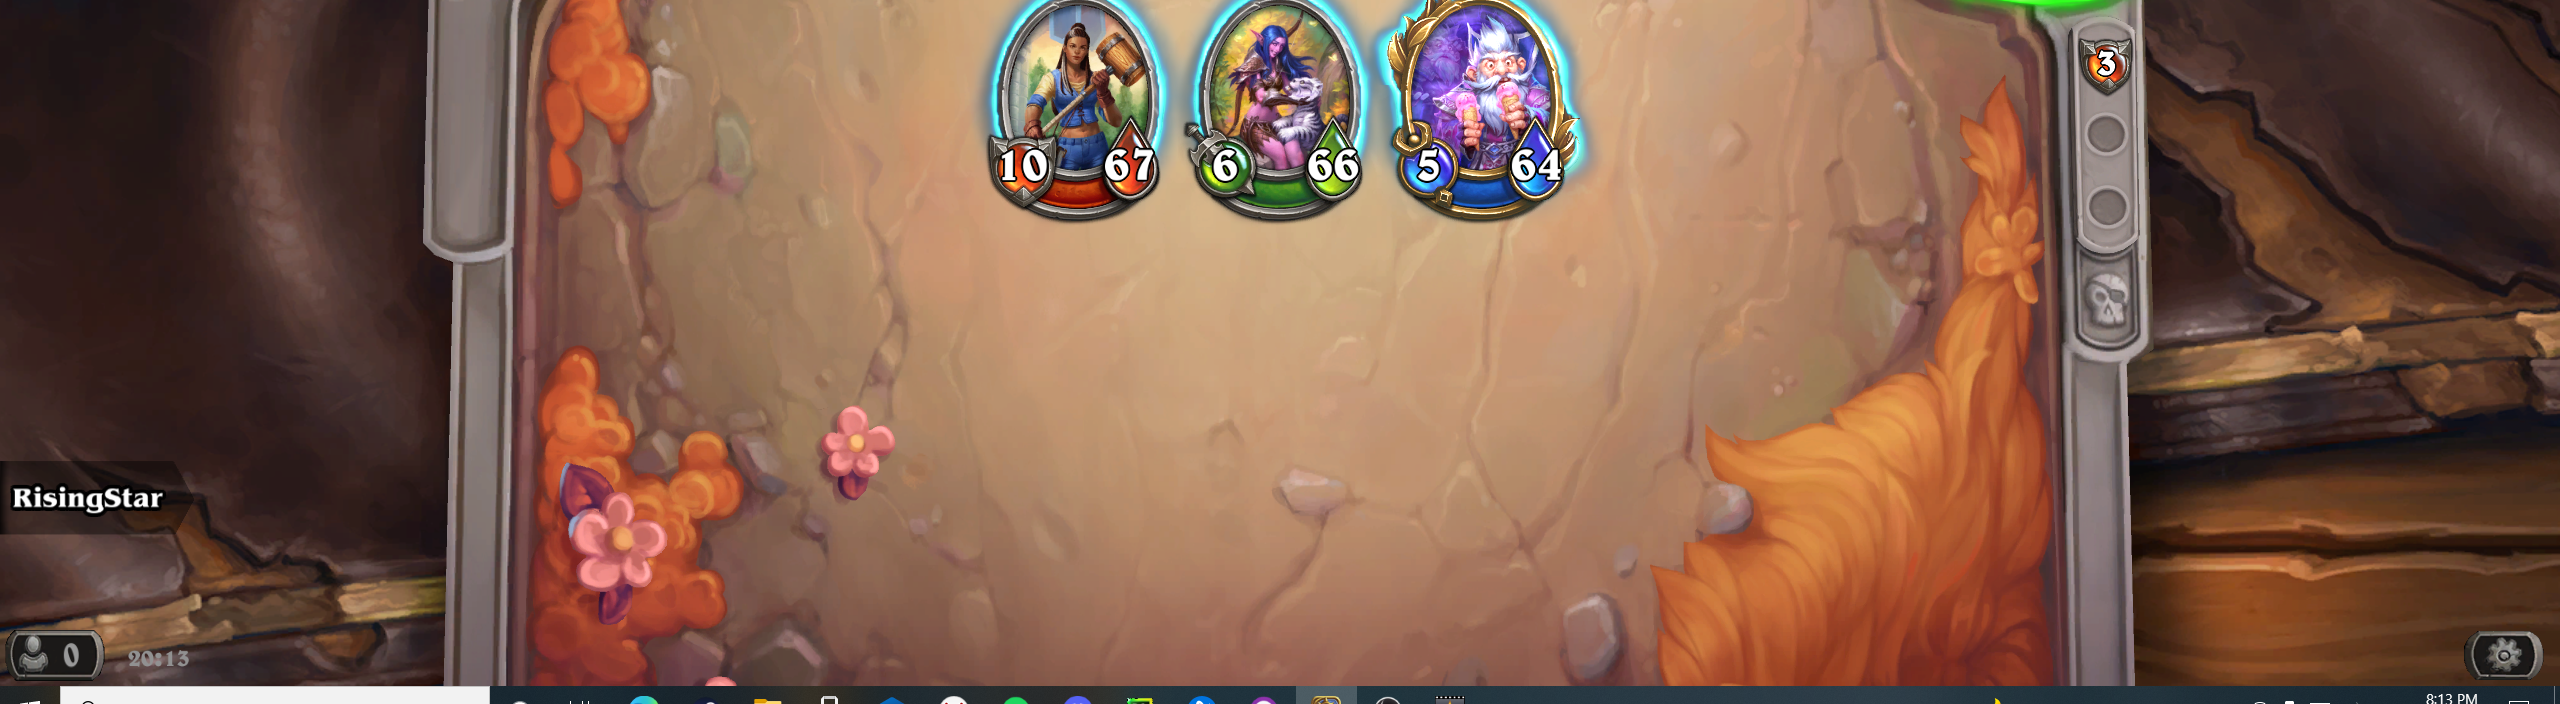
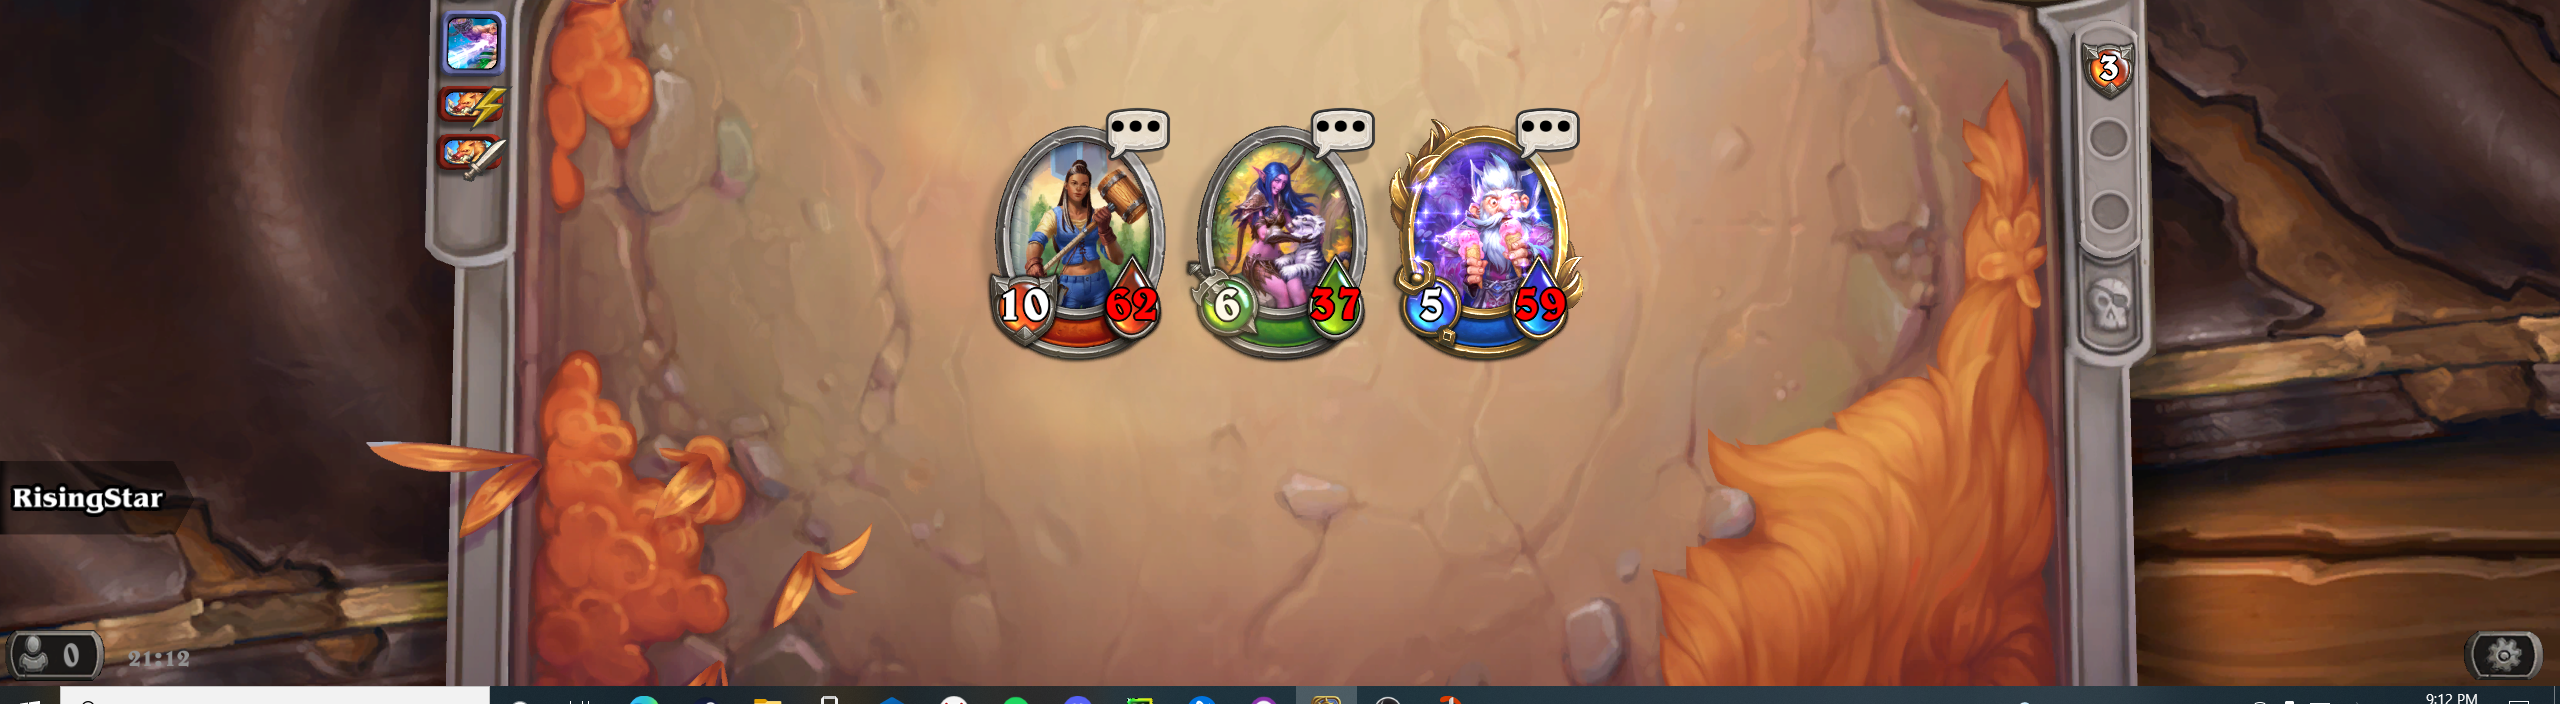
pvp is ready

diff --git a/main.py b/main.py
@@ -24,7 +24,7 @@ sens=0.75
 #Ui-ellements
 Ui_Ellements=['battle','blue','green','group','next','one','page_1','page_2','page_3','red','prev','sob','noclass']
 #buttons
-buttons=['back','continue','create','del','join_button','num','ok','play','ready','sec','sta','start','start1','submit','allready','startbattle']
+buttons=['back','continue','create','del','join_button','num','ok','play','ready','sec','sta','start','start1','submit','allready','startbattle','startbattle1']
 #chekers
 chekers=['30lvl','empty_check','find','goto','group_find','level_check','rename','shab','drop','301','302','taken','text']
 #levels
@@ -183,6 +183,7 @@ def rand(enemyred, enemygreen ,enemyblue ,enemynoclass):
                 break
 
 def abilicks(index):
+    heroTEMP.clear()
     for i in range(3):
         if hero_colour[i] == index:
             heroTEMP.append(hero[i])
@@ -191,16 +192,18 @@ def abilicks(index):
     for obj in heroTEMP:
         if obj=='heroes/1' and raund>1:
                 find_ellement(obj + '/abilics/2.png', 9)
-        if obj=='heroes/3':
+        elif obj=='heroes/3':
             find_ellement(obj + '/abilics/2.png', 9)
         else:
             find_ellement(obj + '/abilics/1.png', 9)
+
 def atack(i,enemyred, enemygreen ,enemyblue ,enemynoclass,mol):
     x=int(i[1])
     y=int(i[2])
     if i[0]=='Red':
         ahk.mouse_move(x,y, speed=3)
         ahk.click()
+        ahk.mouse_move(x, y+300, speed=3)
         time.sleep(0.2)
         abilicks('Red')
         if move(enemygreen):
@@ -209,6 +212,7 @@ def atack(i,enemyred, enemygreen ,enemyblue ,enemynoclass,mol):
     if i[0] == 'Green':
         ahk.mouse_move(x, y, speed=3)
         ahk.click()
+        ahk.mouse_move(x, y +300, speed=3)
         time.sleep(0.2)
         abilicks('Green')
         if move(enemyblue):
@@ -217,6 +221,7 @@ def atack(i,enemyred, enemygreen ,enemyblue ,enemynoclass,mol):
     if i[0] == 'Blue':
         ahk.mouse_move(x, y, speed=3)
         ahk.click()
+        ahk.mouse_move(x, y +300, speed=3)
         time.sleep(0.2)
         abilicks('Blue')
         if move(enemyred):
@@ -231,7 +236,8 @@ def battle():
     global speed
     raund = 1
     while True:
-        if find_ellement(buttons[14], 1):
+        if find_ellement(buttons[15], 1) or find_ellement(buttons[16], 1) :
+            herobattle.clear()
             ahk.mouse_move(100, 100, speed=3)  # Moves the mouse instantly to absolute screen position
             ahk.click()
             tmp=int(win.rect[3] / 2)
@@ -259,7 +265,7 @@ def battle():
             speed = temp
 
             time.sleep(1)
-            find_ellement(buttons[14], 1)
+            find_ellement(buttons[14], 9)
             time.sleep(5)
             raund+=1
 
@@ -287,6 +293,7 @@ def set():
             x= win.rect[2]/2.85
     speed = temp
     sens = 0.7
+    ahk.mouse_move(200, 200, speed=3)
     time.sleep(1)
     find_ellement(buttons[14], 9)
     time.sleep(5)
